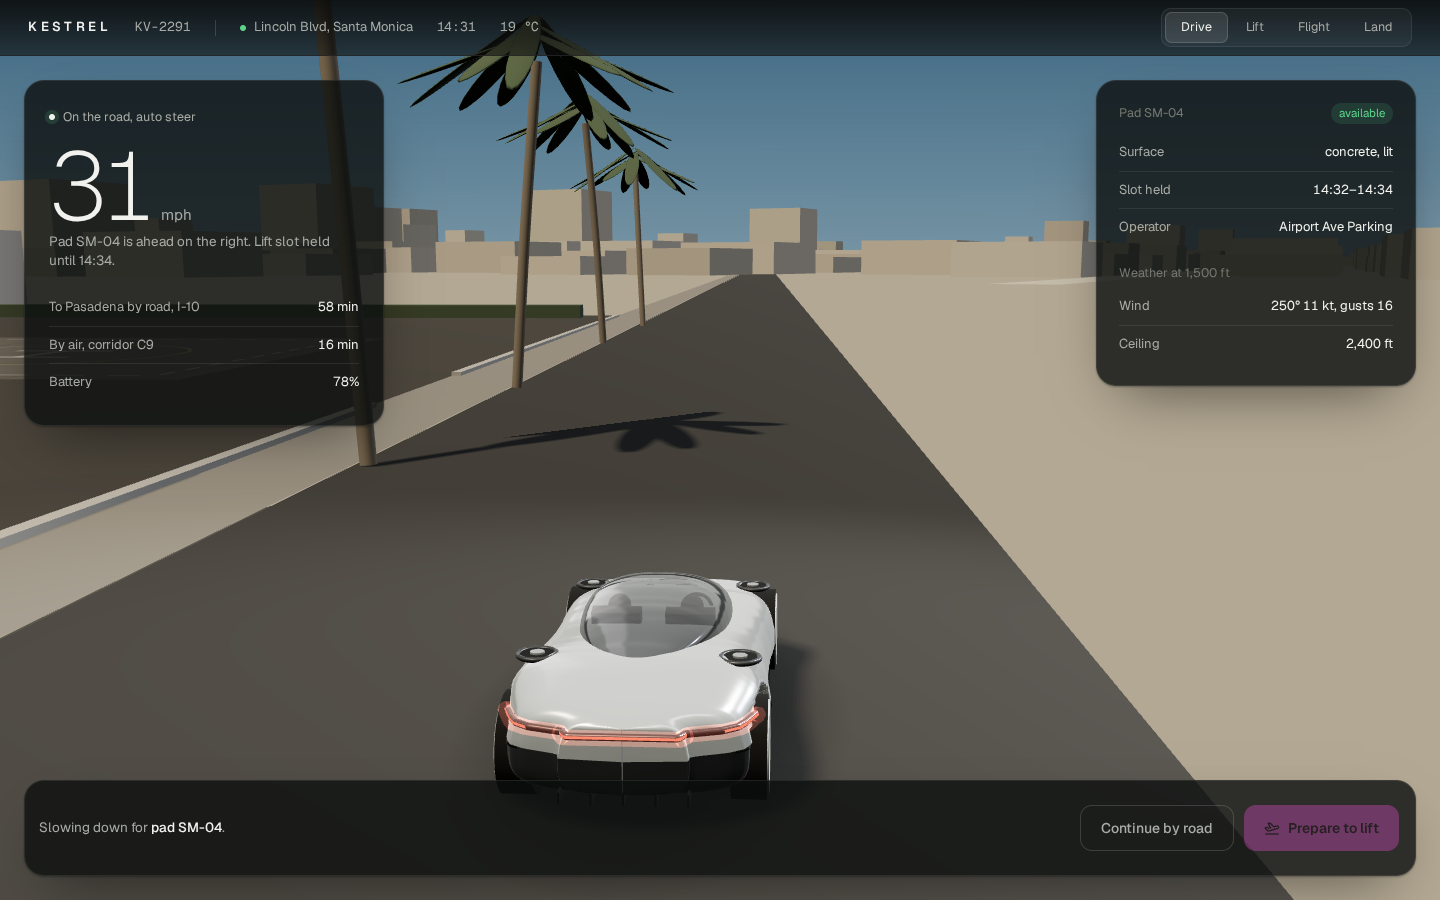
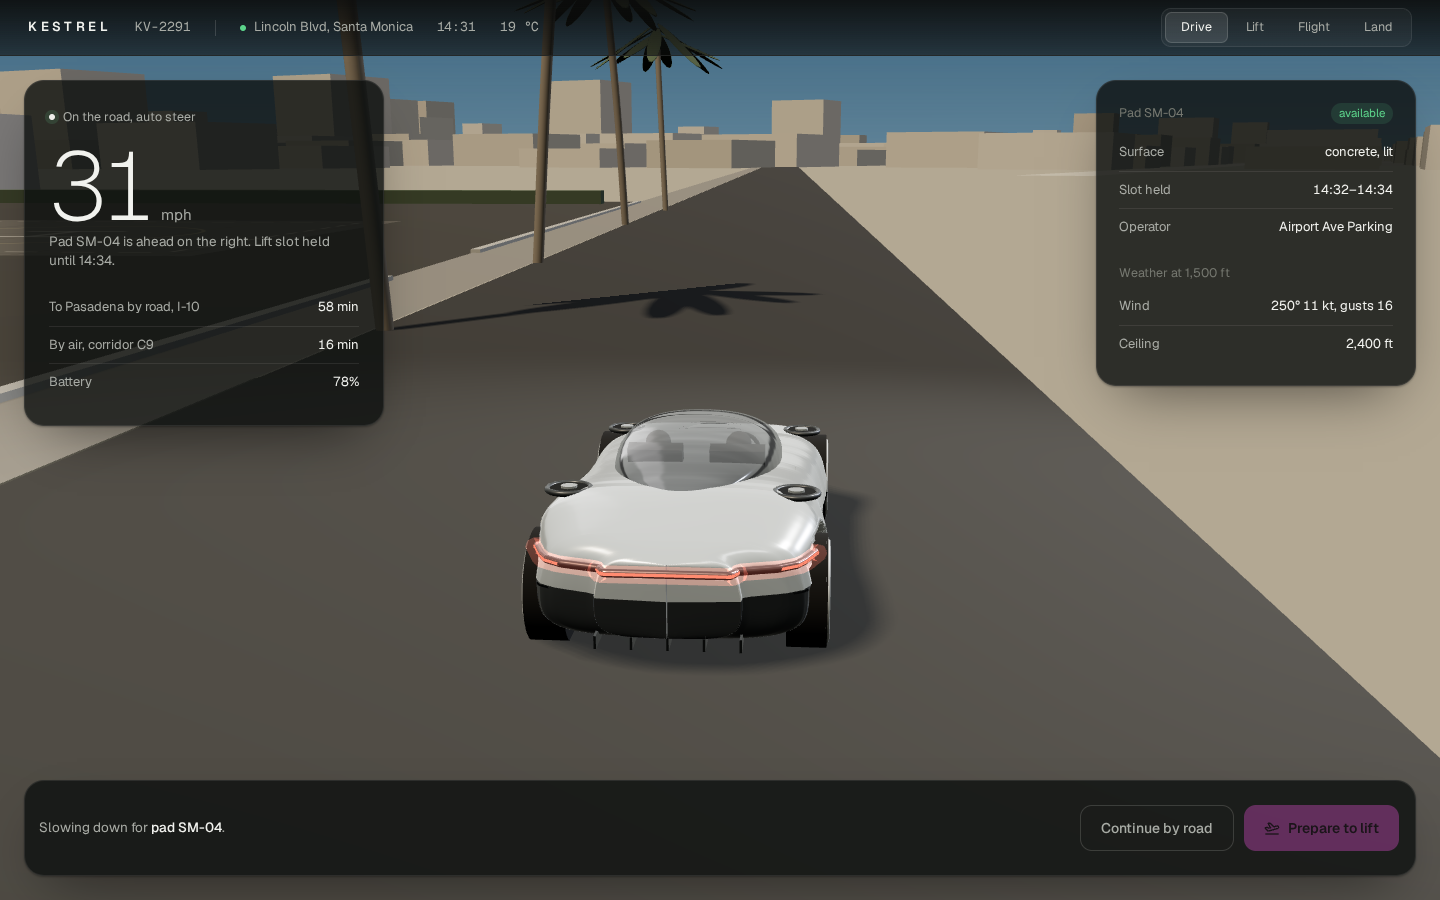
Add files via upload

diff --git a/2026-10-kestrel/index.html b/2026-10-kestrel/index.html
@@ -251,6 +251,8 @@ p.sub b{color:var(--tx);font-weight:500}
   .gauge{top:auto;bottom:220px}.gauge .v{font-size:54px}.ruler,.scrim.sl,.scrim.sr,.hint{display:none}
   #trip{left:16px;right:16px;max-width:none}#trip h2{font-size:22px}
 }
+html.film,html.film *{cursor:none!important}
+html.film .hint,html.film #chips .chip.lm{display:none!important}
 html.noblur *{backdrop-filter:none!important;-webkit-backdrop-filter:none!important}
 @media (prefers-reduced-motion:reduce){*,*::before,*::after{animation-duration:.01ms!important;transition-duration:.01ms!important}}
 </style>
@@ -900,12 +902,12 @@ function chase(back, up, side, ahead, down) {
 }
 function rig() {
   const m = S.mode, ph = S.phase, sx = 32 * W / 1440;
-  if (m === 'drive' && S.drive.leg === 'origin') { const c = chase(11, 4.2, 1.2, 10, -1); return { ...c, fov: 40, ox: 0 }; }
+  if (m === 'drive' && S.drive.leg === 'origin') { const c = chase(10, 3.4, .9, 2.2, -.5); return { ...c, fov: 40, ox: 0 }; }
   if (m === 'lift' && ph !== 'takeoff') return { p: LIFT_OFF.clone(), t: LIFT_T.clone(), fov: 25, ox: -sx };
   if (ph === 'takeoff' || m === 'flight') {
     /* the camera rises with the car (the pad drops away below), then swings behind it */
     const y = car.position.y, e = sm(30, 320, y), et = sm(140, 430, y);
-    const c = chase(20.5, 7.4, 2.4, 80, 9), cp = car.position;
+    const c = chase(14.5, 5.2, 1.6, 60, 6.5), cp = car.position;
     const lp = cp.clone().add(LIFT_OFF), lt = cp.clone().add(LIFT_T);
     return { p: lp.lerp(c.p, e), t: lt.lerp(c.t, et), fov: mix(25, 46, e), ox: mix(-sx, 0, e) };
   }
@@ -918,7 +920,7 @@ function rig() {
   }
   if (m === 'drive' && S.drive.leg === 'dest') {
     if (S.phase === 'landed') { const pad = car.position; return { p: pad.clone().add(LIFT_OFF), t: pad.clone().add(LIFT_T), fov: 25, ox: -sx }; }
-    const c = chase(11, 4.2, 1.2, 10, -1); return { ...c, fov: 40, ox: 0 };
+    const c = chase(10, 3.4, .9, 2.2, -.5); return { ...c, fov: 40, ox: 0 };
   }
   return { p: cam.position.clone(), t: camT.clone(), fov: cam.fov, ox: 0 };
 }
@@ -1170,6 +1172,7 @@ function renderFlightDock() {
   const bc = $('#bConf'); if (bc) bc.onclick = () => enterLand();
 }
 function flightUpdate(dt) {
+  dt *= FILM.ts;
   const F = S.fly; if (!F.active || S.mode === 'land' || S.mode === 'drive') return;
   const s = F.s;
   const vt = s < 30 ? 6.5 : s < 1000 ? mix(6.5, 240, sm(30, 1000, s)) : s > S_APP ? mix(240, 30, sm(S_APP, FPL, s)) : 240;
@@ -1287,12 +1290,55 @@ function presetLand() {
 $$('.modes button').forEach(b => b.onclick = () => ({ drive: resetAll, lift: presetLift, flight: presetFlight, land: presetLand })[b.dataset.m]());
 /* demo mode for recording: R restarts, 1-4 jump to Drive, Lift, Flight, Land */
 addEventListener('keydown', e => { if (e.metaKey || e.ctrlKey || e.altKey || e.repeat || /INPUT|TEXTAREA/.test(document.activeElement.tagName)) return;
-  const k = e.key.toLowerCase(); const jump = { r: resetAll, 1: resetAll, 2: presetLift, 3: presetFlight, 4: presetLand }[k]; if (jump) { e.preventDefault(); jump(); } });
+  const k = e.key.toLowerCase(); if (k === 'f') { e.preventDefault(); filmStart(); return; } if (k === 'escape' && FILM.on) { filmStop(); return; }
+  if (FILM.on) filmStop();
+  const jump = { r: resetAll, 1: resetAll, 2: presetLift, 3: presetFlight, 4: presetLand }[k]; if (jump) { e.preventDefault(); jump(); } });
 
 /* intro choreography */
 function playIntro() {
   const order = ['.top', '#left', '#right', '#dock'];
   order.forEach((s, i) => { const e = $(s); if (!e || RM) return; e.animate([{ opacity: 0, transform: 'translateY(10px)', filter: 'blur(6px)' }, { opacity: 1, transform: 'none', filter: 'none' }], { duration: 700, delay: 150 + i * 110, easing: 'cubic-bezier(.2,.7,.2,1)', fill: 'backwards' }); });
+}
+
+/* ================= film mode (F): a fixed 15 s take for recording ================= */
+const FILM = { on: false, t: 0, ts: 1, step: 0, zoom: 1 };
+const filmShade = (() => { const d = document.createElement('div'); d.style.cssText = 'position:fixed;inset:0;background:#000;opacity:0;pointer-events:none;z-index:50;transition:opacity .6s'; document.body.appendChild(d); return d; })();
+/* close-up: the ignition sits in the middle of the frame; as z returns to 1 it slides back into the dock */
+const FILM_Z = 2.3;
+function filmZoom(z) { FILM.zoom = z; if (z <= 1.0001) { document.body.style.transform = ''; return; }
+  const k = (z - 1) / (FILM_Z - 1), cx = mix(FILM.ox, W / 2, k), cy = mix(FILM.oy, H * .52, k);
+  document.body.style.transformOrigin = '0 0'; document.body.style.transform = `translate(${cx - FILM.ox * z}px,${cy - FILM.oy * z}px) scale(${z})`; }
+function filmStart() {
+  RUN++; DESC = null; FILM.on = true; FILM.t = 0; FILM.step = 0; FILM.ts = 1; filmShade.style.opacity = 0;
+  document.documentElement.classList.add('film');
+  S.fly = { s: 0, v: 0, active: false }; S.corr = 'C9'; S.liftMin = 32; S.drive.parked = true; S.drive.leg = 'origin';
+  CHECKS.forEach(c => S.chk[c.id] = 'ok'); S.chk.lvl = 'run'; S.chk.arms = 'run'; S.open = {};
+  foldAnim = null; ud.setFold(1); spinTarget = 0; ud.spin(0); padMarks.forEach(r => r.material.opacity = 0);
+  car.position.set(0, 0, 0); car.rotation.set(0, PAD_YAW, 0);
+  setMode('lift'); S.phase = 'checks'; show(['left', 'right', 'dock']); renderLift(true); setClock(14 * 60 + 32); setWhere('Pad SM-04, Santa Monica');
+  updateCam(0, true);
+  const b = $('#dock .ign-btn').getBoundingClientRect(); FILM.ox = b.left + b.width / 2; FILM.oy = b.top + b.height / 2;
+  document.body.style.transition = 'none'; filmZoom(FILM_Z);
+}
+function filmStop() { FILM.on = false; FILM.ts = 1; document.documentElement.classList.remove('film'); document.body.style.transform = ''; filmShade.style.opacity = 0; }
+const easeIO = t => t < .5 ? 4 * t * t * t : 1 - Math.pow(-2 * t + 2, 3) / 2;
+function filmTick(dt) {
+  if (!FILM.on) return;
+  FILM.t += dt; const t = FILM.t, st = FILM.step;
+  if (st === 0 && t > .5) { S.chk.lvl = 'ok'; renderLift(); FILM.step = 1; }
+  if (st === 1 && t > .95) { S.chk.arms = 'ok'; renderLift(); FILM.step = 2; }
+  if (st === 2 && t > 1.9) { $('#dock .ign').dataset.st = 'hold'; L.dock.classList.add('charging'); FILM.step = 3; FILM.h0 = t; }
+  if (st === 3) { const p = Math.min(1, (t - FILM.h0) / 2.2); setIgn(p); spinTarget = 62 * p; $('#igCap').textContent = p < 1 ? `Spinning up ${Math.round(p * 100)}%` : 'Lifting off';
+    if (p >= 1) { $('#dock .ign').dataset.st = 'go'; L.dock.classList.remove('charging'); doTakeoff(); FILM.step = 4; FILM.z0 = t; } }
+  if (st >= 4 && FILM.z0 != null) { const k = Math.min(1, (t - FILM.z0 - .25) / 1.3); if (k > 0) filmZoom(1 + (FILM_Z - 1) * (1 - easeIO(k))); if (k >= 1) FILM.z0 = null; }
+  if (st >= 4) {
+    const y = car.position.y, s = S.fly.s;
+    const tgt = y < 22 ? 1.6 : y < 440 ? 5.5 : s < S_APP - 900 ? 11 : 6;
+    FILM.ts = mix(FILM.ts, tgt, 1 - Math.exp(-dt * 1.6));
+    if (st === 4 && (S.phase === 'hold' || s >= FPL - 2)) { FILM.step = 5; FILM.e0 = t; }
+  }
+  if (st === 5 && t - FILM.e0 > 1.6) { filmShade.style.opacity = 1; FILM.step = 6; FILM.f0 = t; }
+  if (st === 6 && t - FILM.f0 > .9) { filmStop(); resetAll(); }
 }
 
 /* ================= main loop ================= */
@@ -1311,6 +1357,7 @@ function loop(now) {
 }
 function tick(dt) {
   S.t += dt; const now = performance.now();
+  filmTick(dt);
   // fold animation
   if (foldAnim) { const k = clamp((now - foldAnim.t0) / foldAnim.ms, 0, 1); ud.setFold(mix(foldAnim.from, foldAnim.to, k)); if (k >= 1) foldAnim = null; }
   // rotor speed

diff --git a/2026-10-kestrel/README.md b/2026-10-kestrel/README.md
@@ -29,7 +29,7 @@ A 22.6 mile trip from Santa Monica to Pasadena in 16 minutes instead of 58 on th
 ![Mobile](screenshots/mobile.png)
 
 ## Demo keys
-`R` restart · `1` Drive · `2` Lift · `3` Flight · `4` Land
+`R` restart · `1` Drive · `2` Lift · `3` Flight · `4` Land · `F` film mode (a fixed 20 s take for recording, `Esc` to stop)
 
 ## Details
 Archetype: industry precision, 3D product scene · Fonts: Geist, Geist Mono · Icons: Tabler Icons · 3D: three.js r128, vehicle built in code from orthographic concept views · Palette: #0C0D0C · #E651D8 · #5BD38A · #F0C24B · #A3A6A4
